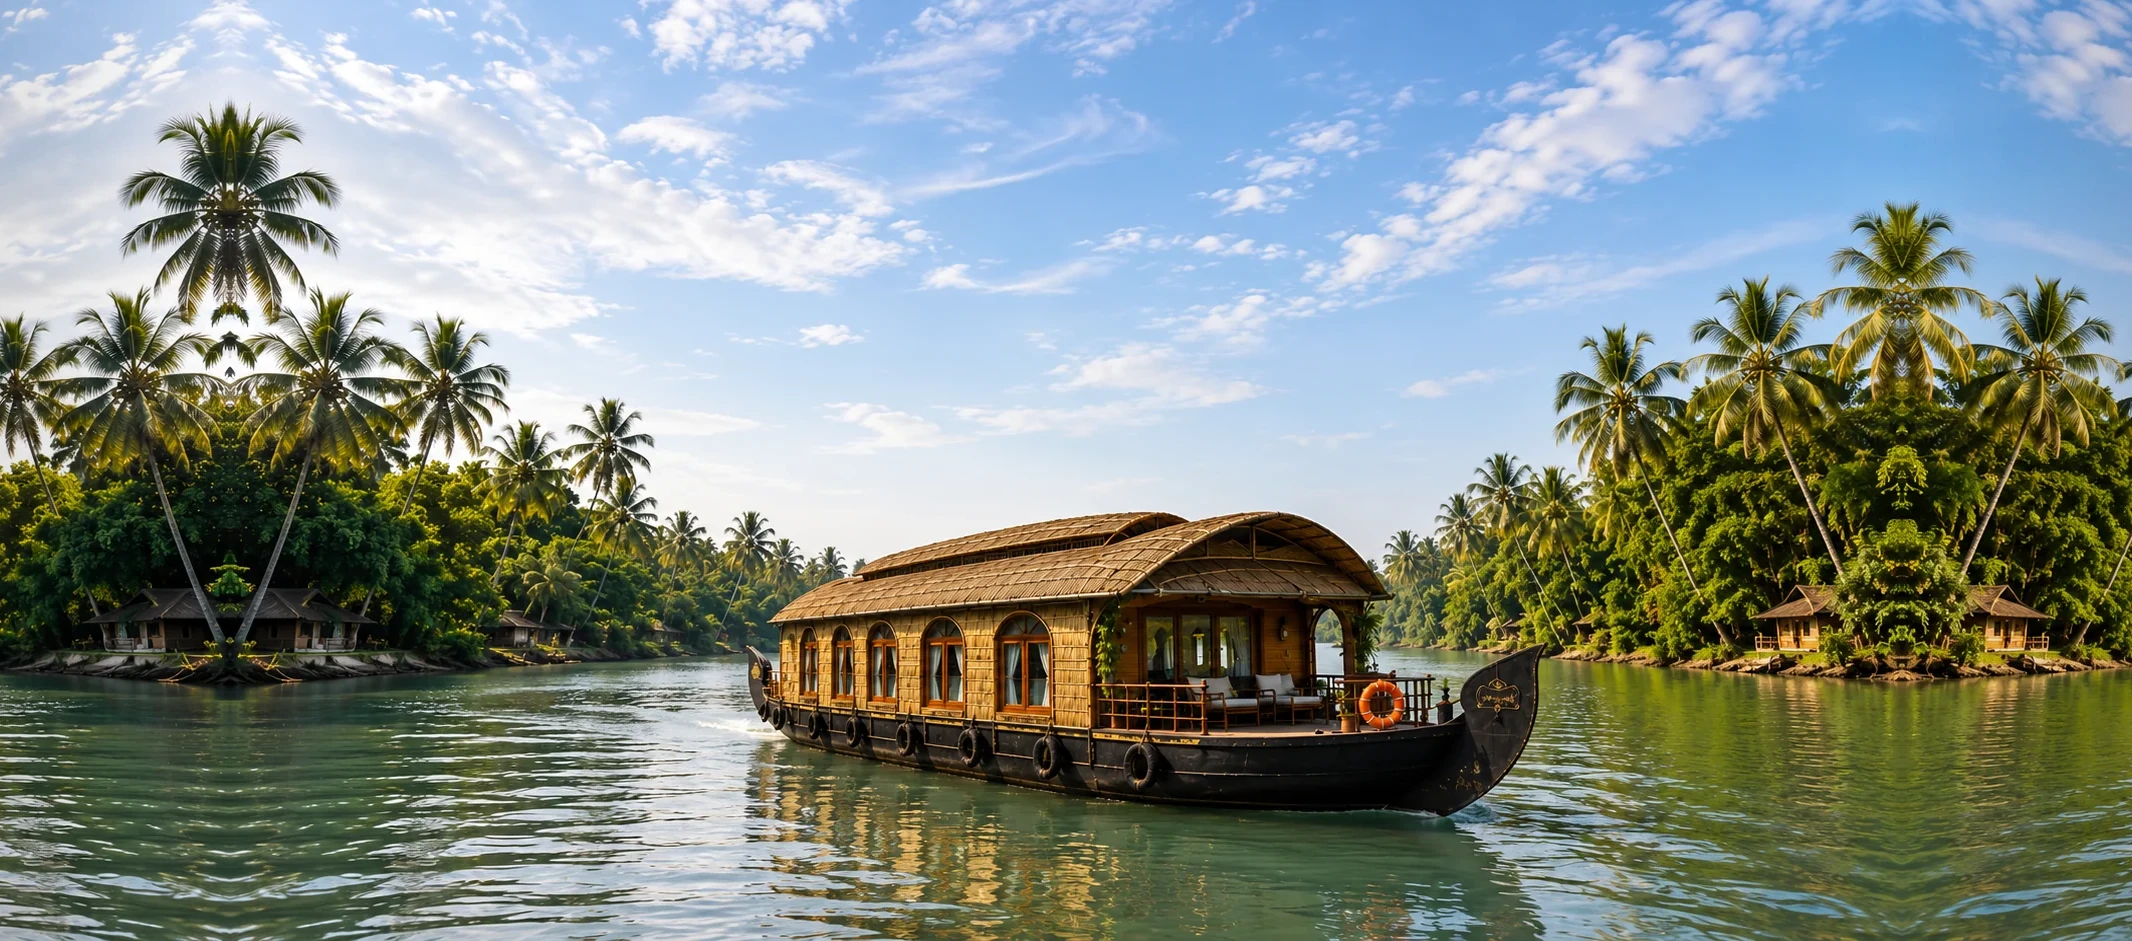
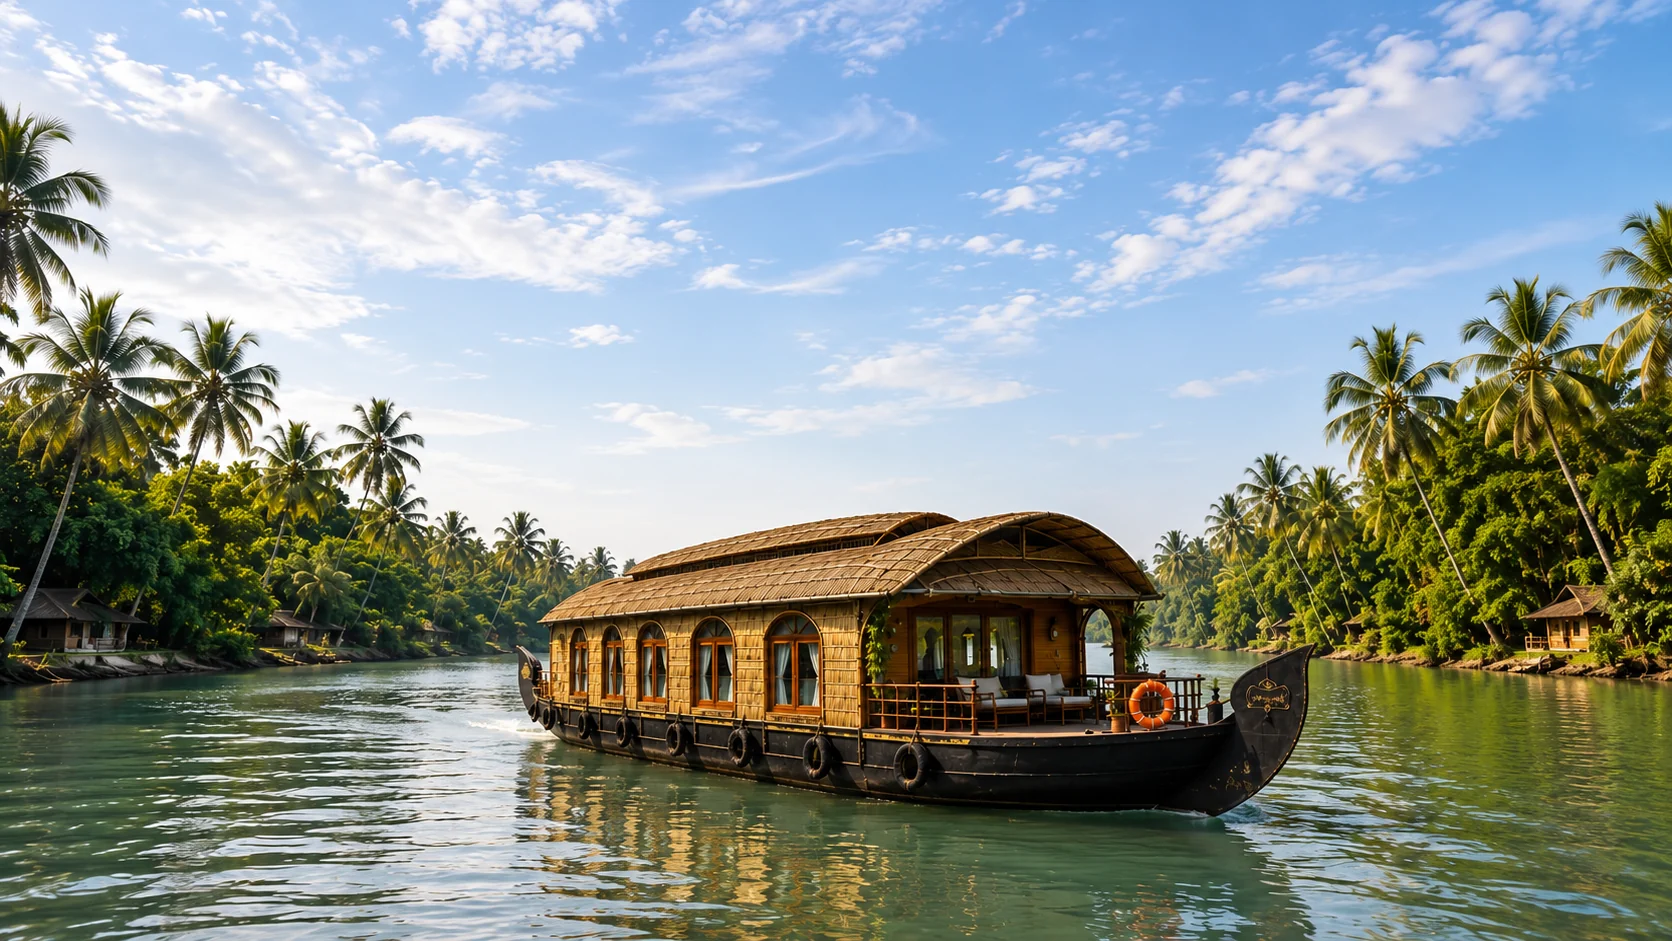
Use the hero photo full-width at its native ratio (drop mirrored banks)
- Restore the original non-widened backwaters photo for both the background
  and the keyed foreground (1672x941).
- Set the hero aspect-ratio to the photo's own ratio (1672/941) so it fills
  the hero edge-to-edge with cover; the whole boat stays in frame and there
  are no mirrored/blurred side banks. Only excess sky is trimmed, and only on
  ultra-wide screens (bottom stays anchored).
- Bump asset cache-busting query to v=hero6.

Claude-Session: https://claude.ai/code/session_015tLgdssnuXee4mtgGrjdLZ

diff --git a/roxy-houseboat/index.html b/roxy-houseboat/index.html
@@ -23,7 +23,7 @@
   <link rel="preconnect" href="https://fonts.googleapis.com" />
   <link rel="preconnect" href="https://fonts.gstatic.com" crossorigin />
   <link href="https://fonts.googleapis.com/css2?family=Poppins:ital,wght@0,300;0,400;0,500;0,600;0,700;0,800;1,400;1,500&family=Playfair+Display:ital,wght@0,500;0,600;0,700;1,500;1,600&family=Lato:wght@300;400;700;900&family=Dancing+Script:wght@600;700&display=swap" rel="stylesheet" />
-  <link rel="stylesheet" href="/assets/css/home.css?v=hero5" />
+  <link rel="stylesheet" href="/assets/css/home.css?v=hero6" />
   <link rel="icon" href="/assets/images/logo.png" />
   <script type="application/ld+json">
 {
@@ -247,7 +247,7 @@
     <div class="hero__stage">
       <div class="hero__lux-bg" role="img"
            aria-label="A traditional Roxy houseboat drifting the calm Nileshwar backwaters, framed by tall coconut palms under a bright tropical sky"
-           style="background-image:url('/assets/images/hero-lux.webp?v=hero5')"></div>
+           style="background-image:url('/assets/images/hero-lux.webp?v=hero6')"></div>
       <!-- living water surface: light drifts and glints across the open water only.
            It sits BELOW the keyed foreground, so the boat + palms naturally mask it
            (the movement never runs over the boat hull or the tree banks). -->
@@ -260,7 +260,7 @@
       <!-- the palms + boat, keyed from the SAME photo and layered ON TOP, so the word
            tucks naturally BEHIND the trees and BEHIND the boat -->
       <div class="hero__lux-fg" aria-hidden="true"
-           style="background-image:url('/assets/images/hero-lux-fg.webp?v=hero5')"></div>
+           style="background-image:url('/assets/images/hero-lux-fg.webp?v=hero6')"></div>
     </div>
     <!-- LEFT (lower): intro copy -->
     <div class="hero__aerial-left">

diff --git a/roxy-houseboat/assets/css/home.css b/roxy-houseboat/assets/css/home.css
@@ -2347,7 +2347,7 @@ a.trust__cell:hover{background:var(--bg-2)}
    ============================================================ */
 .hero--aerial{
   position:relative;overflow:hidden;isolation:isolate;
-  width:100%;aspect-ratio:2132 / 941;          /* match the photo: whole scene, boat NEVER cropped */
+  width:100%;aspect-ratio:1672 / 941;          /* the photo's own ratio: full width, whole scene, boat NEVER cropped, no mirrored banks */
   max-height:100vh;min-height:560px;
   padding:0;margin:0;max-width:none;display:block;
   background:#cfe0ec;                            /* sky tone while the photo loads */
@@ -2359,9 +2359,9 @@ a.trust__cell:hover{background:var(--bg-2)}
 .hero--aerial .hero__lux-bg,
 .hero--aerial .hero__lux-fg{
   position:absolute;inset:0;
-  /* the wide scene fills the hero edge-to-edge; anchored to the BOTTOM so the
-     whole boat is always visible (only the endless sky is cropped on top),
-     with the boat sitting smaller/centred (zoomed out) and banks to both edges */
+  /* the photo fills the hero edge-to-edge at its own ratio; anchored to the
+     BOTTOM so the whole boat is always visible (only the endless sky is ever
+     cropped, and only on ultra-wide screens) — no widening, no mirrored banks */
   background-size:cover;background-position:center bottom;background-repeat:no-repeat;
 }
 .hero--aerial .hero__lux-bg{z-index:1}
